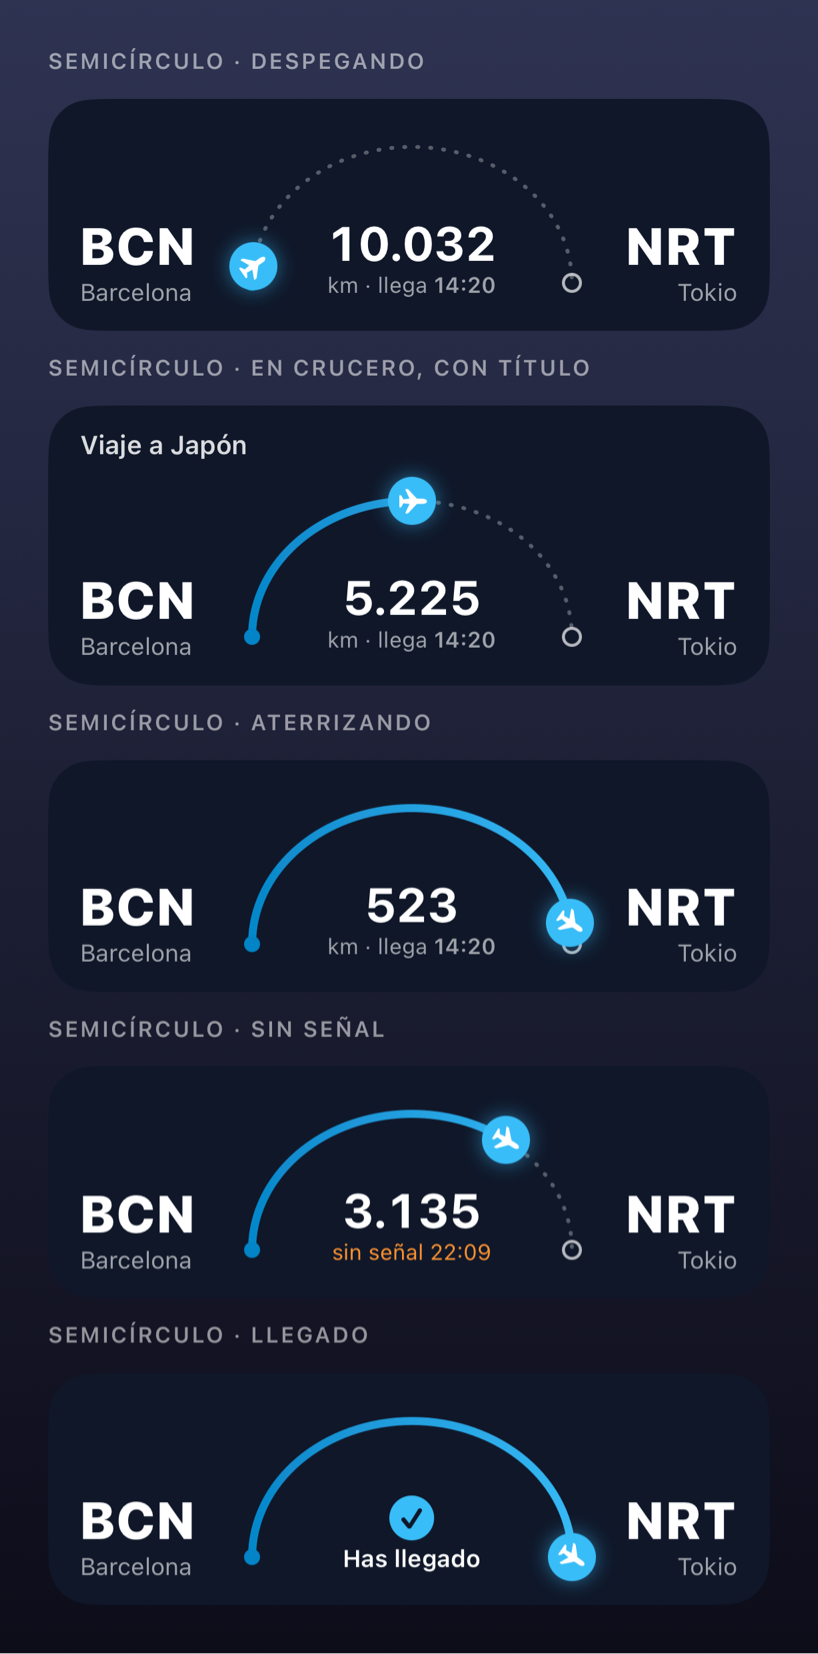
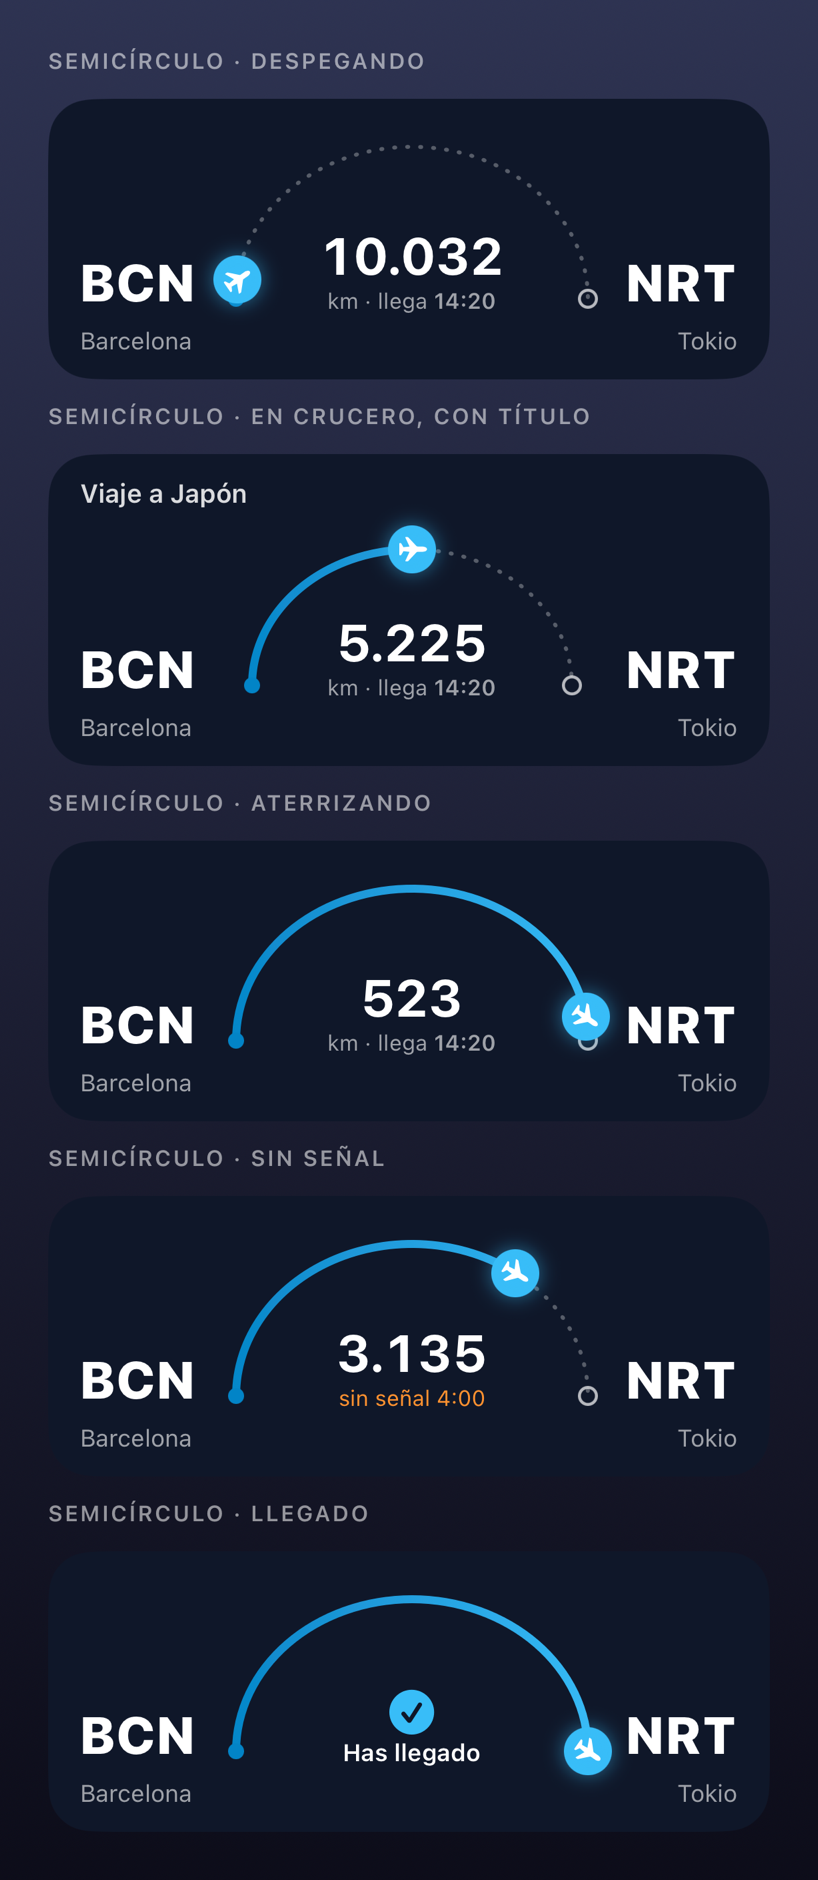
El semicírculo, más ancho: los nombres van en su línea; y el punto de los millares en español
En el móvil la cúpula salía apretadísima: el nombre iba debajo de cada código
y la columna se ensanchaba a lo que midiera el nombre («El Prat de
Llobregat», «Istanbul Airport»). Ahora a los lados de la cúpula van solo los
códigos, y los nombres en una línea por debajo, con la mitad del ancho cada
uno. Con esos mismos datos, la cúpula pasa de unos 97 puntos de ancho a 160.

Y «2224» salía sin punto: con el móvil en español el sistema no separa los
números de cuatro cifras aunque se le pida. En el simulador, en inglés, sí
salía, y por eso no se vio. El formato va ahora con un idioma fijo.

Claude-Session: https://claude.ai/code/session_01AusuMMBoqBUXFPruSb5ppE

diff --git a/ios/Sources/Compartido/ArcoDeViaje.swift b/ios/Sources/Compartido/ArcoDeViaje.swift
@@ -165,45 +165,75 @@ public struct TarjetaViajeArco: View {
     }
 
     private var semicirculo: some View {
-        HStack(alignment: .bottom, spacing: 4) {
-            // Los códigos, con su sitio asegurado: sin esto la cúpula, que se
-            // estira a lo que le dejen, echaba al de destino fuera de la tarjeta.
-            ExtremoDeViaje(lugar: datos.origen, alineado: .leading, apagado: pintura.apagado, tamano: 26)
-                .fixedSize().layoutPriority(1)
-            ZStack(alignment: .bottom) {
-                ArcoDeViaje(progreso: progreso, transporte: datos.transporte, pintura: pintura, chapa: 24)
-                // Dentro de la cúpula, lo que se mira: cuánto falta y cuándo se
-                // llega (o que se ha llegado, o que no hay señal).
-                VStack(spacing: 0) {
-                    if datos.llegado {
-                        Image(systemName: "checkmark.circle.fill")
-                            .font(.system(size: 22, weight: .semibold))
-                            .foregroundStyle(pintura.trayectoFin)
-                        Text("Has llegado").font(.caption.weight(.semibold))
+        VStack(spacing: 2) {
+            HStack(alignment: .bottom, spacing: 4) {
+                // Solo los CÓDIGOS a los lados de la cúpula, y los nombres en
+                // su línea de abajo. Con el nombre debajo de cada código, la
+                // columna se ensanchaba a lo que midiera el nombre —«El Prat
+                // de Llobregat», «Istanbul Airport»— y la cúpula se quedaba con
+                // lo que sobraba: en el móvil salía apretadísima.
+                codigo(datos.origen.abreviatura)
+                cupula
+                    // Un semicírculo de verdad: el doble de ancho que de alto.
+                    // Con tope de alto, que la tarjeta no puede pasar de 160.
+                    .aspectRatio(2, contentMode: .fit)
+                    .frame(maxWidth: .infinity, maxHeight: datos.tituloVisible == nil ? 100 : 92)
+                codigo(datos.destino.abreviatura)
+            }
+            // Los nombres, cada uno con la mitad del ancho: caben enteros los
+            // largos, y si alguno no, se encoge un poco antes de cortarse.
+            HStack(alignment: .firstTextBaseline, spacing: 8) {
+                Text(datos.origen.nombre)
+                    .frame(maxWidth: .infinity, alignment: .leading)
+                Text(datos.destino.nombre)
+                    .multilineTextAlignment(.trailing)
+                    .frame(maxWidth: .infinity, alignment: .trailing)
+            }
+            .font(.caption)
+            .foregroundStyle(pintura.apagado)
+            .lineLimit(1)
+            .minimumScaleFactor(0.8)
+        }
+    }
+
+    private func codigo(_ t: String) -> some View {
+        Text(t)
+            .font(.system(size: 26, weight: .heavy)).tracking(1)
+            .fixedSize()
+            .layoutPriority(1)
+            // A la altura de las puntas del arco, que están media chapa por
+            // encima de la base.
+            .padding(.bottom, 4)
+    }
+
+    /// La cúpula, con lo que se mira dentro: cuánto falta y cuándo se llega
+    /// (o que se ha llegado, o que no hay señal).
+    private var cupula: some View {
+        ZStack(alignment: .bottom) {
+            ArcoDeViaje(progreso: progreso, transporte: datos.transporte, pintura: pintura, chapa: 24)
+            VStack(spacing: 0) {
+                if datos.llegado {
+                    Image(systemName: "checkmark.circle.fill")
+                        .font(.system(size: 22, weight: .semibold))
+                        .foregroundStyle(pintura.trayectoFin)
+                    Text("Has llegado").font(.caption.weight(.semibold))
+                } else {
+                    Text(ColoresViaje.km(datos.restanteKm))
+                        .font(.system(size: 26, weight: .bold)).monospacedDigit()
+                        .minimumScaleFactor(0.7).lineLimit(1)
+                    if datos.sinSenal {
+                        (Text("sin señal ") + Text(datos.actualizado, style: .time))
+                            .font(.caption2).foregroundStyle(Color.orange)
+                    } else if let llegada = datos.llegada {
+                        (Text("km · llega ") + Text(llegada, style: .time).bold())
+                            .font(.caption2).foregroundStyle(pintura.apagado)
                     } else {
-                        Text(ColoresViaje.km(datos.restanteKm))
-                            .font(.system(size: 24, weight: .bold)).monospacedDigit()
-                            .minimumScaleFactor(0.7).lineLimit(1)
-                        if datos.sinSenal {
-                            (Text("sin señal ") + Text(datos.actualizado, style: .time))
-                                .font(.caption2).foregroundStyle(Color.orange)
-                        } else if let llegada = datos.llegada {
-                            (Text("km · llega ") + Text(llegada, style: .time).bold())
-                                .font(.caption2).foregroundStyle(pintura.apagado)
-                        } else {
-                            Text("km").font(.caption2).foregroundStyle(pintura.apagado)
-                        }
+                        Text("km").font(.caption2).foregroundStyle(pintura.apagado)
                     }
                 }
-                .padding(.bottom, 4)
-                .padding(.horizontal, 30)
             }
-            // Un semicírculo de verdad: el doble de ancho que de alto. Con tope
-            // de alto, que la tarjeta no puede pasar de 160 puntos.
-            .aspectRatio(2, contentMode: .fit)
-            .frame(maxWidth: .infinity, maxHeight: 92)
-            ExtremoDeViaje(lugar: datos.destino, alineado: .trailing, apagado: pintura.apagado, tamano: 26)
-                .fixedSize().layoutPriority(1)
+            .padding(.bottom, 4)
+            .padding(.horizontal, 30)
         }
     }
 }

diff --git a/ios/Tests/LaminaArcoTests.swift b/ios/Tests/LaminaArcoTests.swift
@@ -82,7 +82,27 @@ final class LaminaArcoTests: XCTestCase {
         print("LAMINA \(carpeta.path)/\(nombre).png")
     }
 
+    /// Lo que salió apretado en el móvil: nombres largos debajo de los códigos.
+    private var estambul: DatosDeViaje {
+        let prat = LugarDeViaje(nombre: "El Prat de Llobregat", abreviatura: "BCN", latitud: 41.2886, longitud: 2.0743)
+        let ist = LugarDeViaje(nombre: "Istanbul Airport", abreviatura: "IST", latitud: 41.2753, longitud: 28.7519)
+        let total = Trayecto.km(prat.coordenada, ist.coordenada)
+        return DatosDeViaje(titulo: "Algo muy especial...🎁", origen: prat, destino: ist, transporte: .avion,
+                            colores: ColoresDeViaje(fondo: "#1a0b2e", trayecto: "#8b5cf6"),
+                            restanteKm: total, progreso: 0)
+    }
+
     func testPintaLaPropuestaDelArco() throws {
+        try pinta(sobreFondo(VStack(spacing: 12) {
+            rotulo("Nombres largos · al salir")
+            TarjetaViajeArco(datos: estambul, forma: .semicirculo)
+                .frame(width: 361).background(Color(hexContador: "#1a0b2e"))
+                .clipShape(RoundedRectangle(cornerRadius: 22, style: .continuous))
+            rotulo("Nombres largos · a medio camino")
+            TarjetaViajeArco(datos: { var d = estambul; d.progreso = 0.5; d.restanteKm = 1112; return d }(), forma: .semicirculo)
+                .frame(width: 361).background(Color(hexContador: "#1a0b2e"))
+                .clipShape(RoundedRectangle(cornerRadius: 22, style: .continuous))
+        }), "03-nombres-largos")
         try pinta(sobreFondo(serie(.tendido, "Arco tendido")), "01-arco-tendido")
         try pinta(sobreFondo(serie(.semicirculo, "Semicírculo")), "02-semicirculo")
         try pinta(sobreFondo(VStack(spacing: 12) {
@@ -100,7 +120,12 @@ final class LaminaArcoTests: XCTestCase {
         for forma in [TarjetaViajeArco.Forma.tendido, .semicirculo] {
             for t in [nil, "Viaje a Japón"] {
                 for letra in [DynamicTypeSize.large, .accessibility5] {
-                    let host = UIHostingController(rootView: TarjetaViajeArco(datos: datos(0.5, titulo: t), forma: forma)
+                    var d = datos(0.5, titulo: t)
+                    if forma == .semicirculo {
+                        d.origen = estambul.origen
+                        d.destino = estambul.destino
+                    }
+                    let host = UIHostingController(rootView: TarjetaViajeArco(datos: d, forma: forma)
                         .environment(\.dynamicTypeSize, letra))
                     let h = host.sizeThatFits(in: CGSize(width: 361, height: 1000)).height
                     print("ALTO \(forma) titulo=\(t == nil ? "no" : "si") \(letra) \(Int(h))")
@@ -108,6 +133,11 @@ final class LaminaArcoTests: XCTestCase {
                 }
             }
         }
+    }
+
+    /// Los km, con el punto de los millares aunque el móvil esté en español.
+    func testElPuntoDeLosMillaresSaleSiempre() {
+        XCTAssertEqual(ColoresViaje.km(2224), "2.224")
     }
 
     /// El avión sigue la curva: morro arriba al salir, recto arriba del todo,

diff --git a/ios/Sources/Compartido/VistasViaje.swift b/ios/Sources/Compartido/VistasViaje.swift
@@ -106,6 +106,11 @@ public enum ColoresViaje {
     /// el punto.
     public static func km(_ v: Double) -> String {
         let f = NumberFormatter()
+        // Con un idioma fijo y neutro, y los separadores puestos a mano. Con
+        // el del móvil en español el sistema NO separa los de cuatro cifras
+        // aunque se le pida: en el iPhone salía «2224». En el simulador, en
+        // inglés, sí salía el punto, y por eso no se vio antes.
+        f.locale = Locale(identifier: "en_US_POSIX")
         f.numberStyle = .decimal
         f.usesGroupingSeparator = true
         f.groupingSeparator = "."
